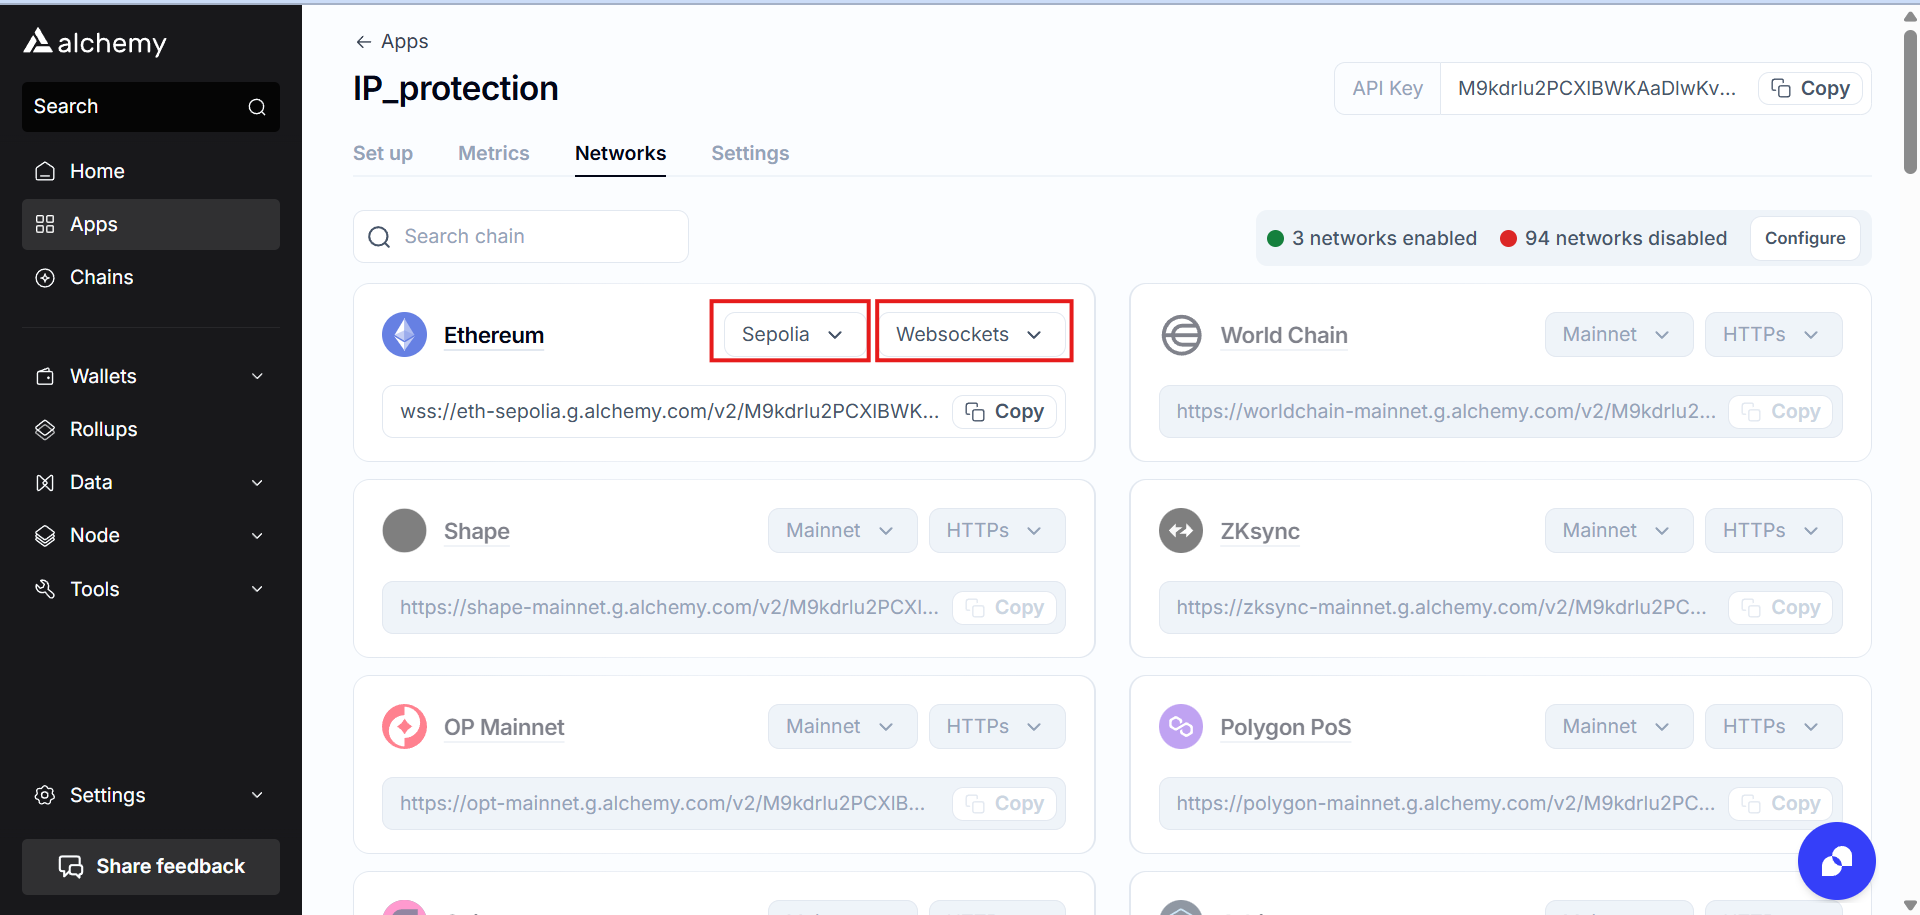
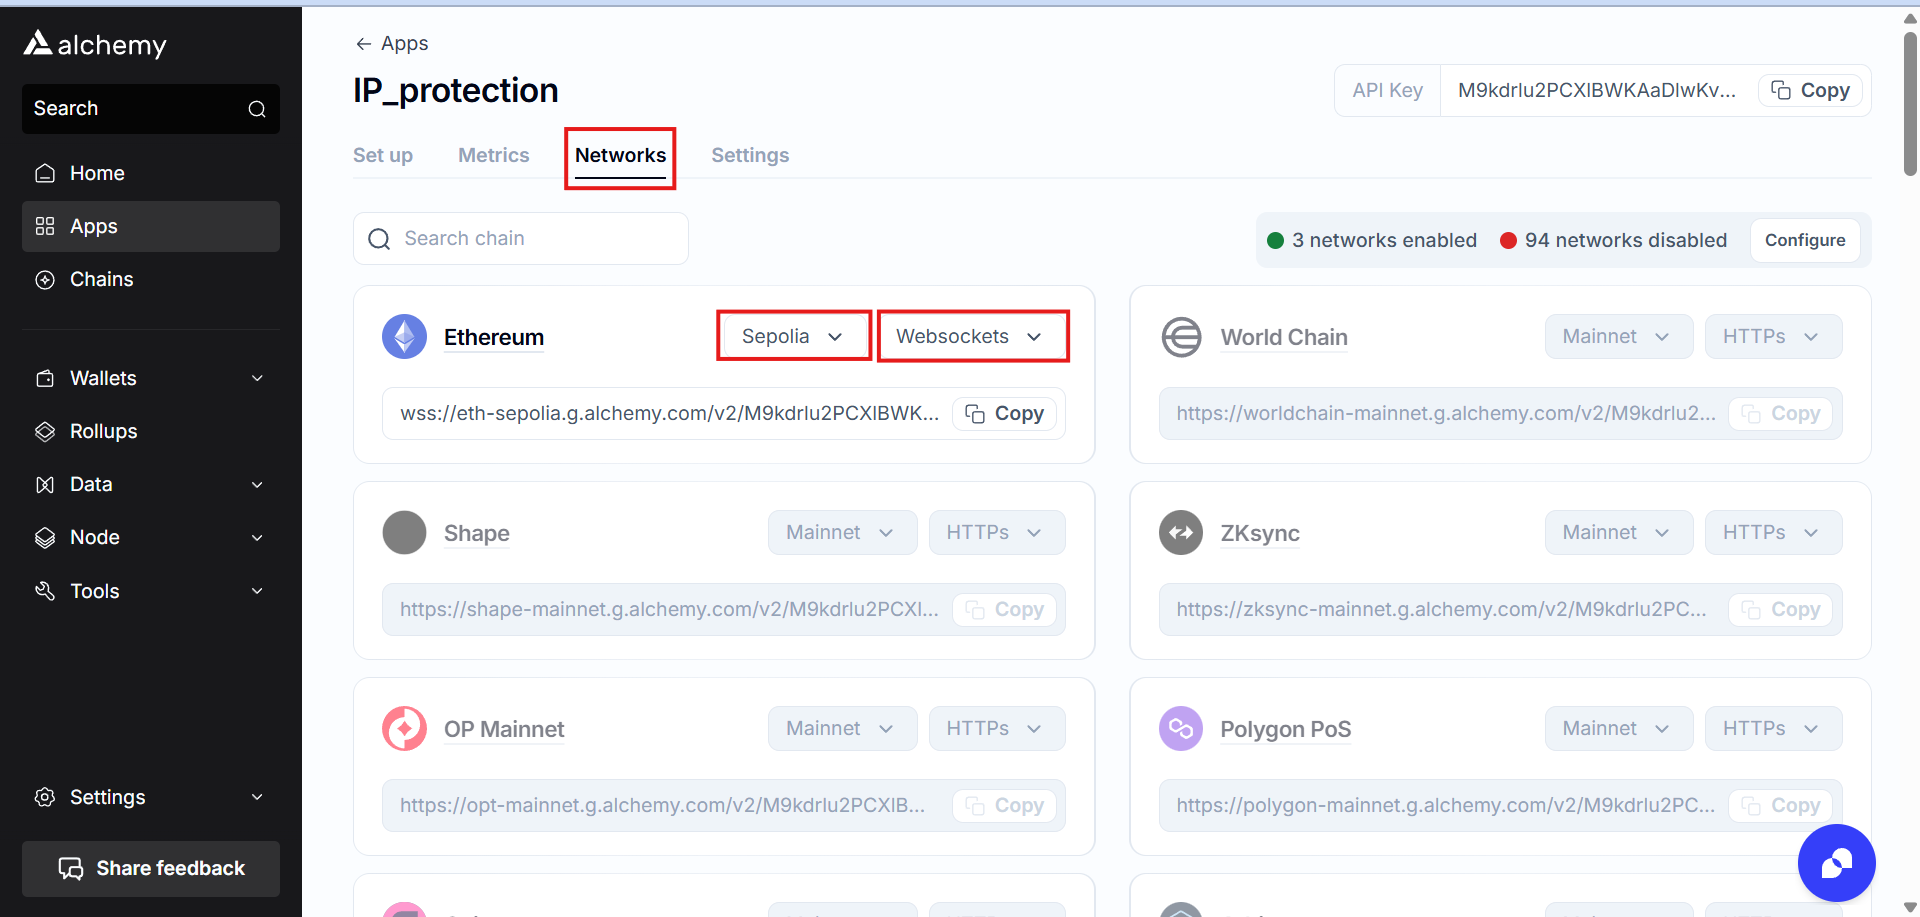
read

diff --git a/README.md b/README.md
@@ -205,6 +205,17 @@ npm install dotenv
   <img alt="Network Name" src="/assets/env-content.png">
 </p>
 
+- Go to network section on Alchemy 
+- change 
+-   Mainnet to Sepolia 
+-   HTTPs to Websockets
+
+<p align="center">
+  <img alt="Network Name" src="/assets/network-alchemy.png">
+</p>
+
+
+
 --- 
 
 
